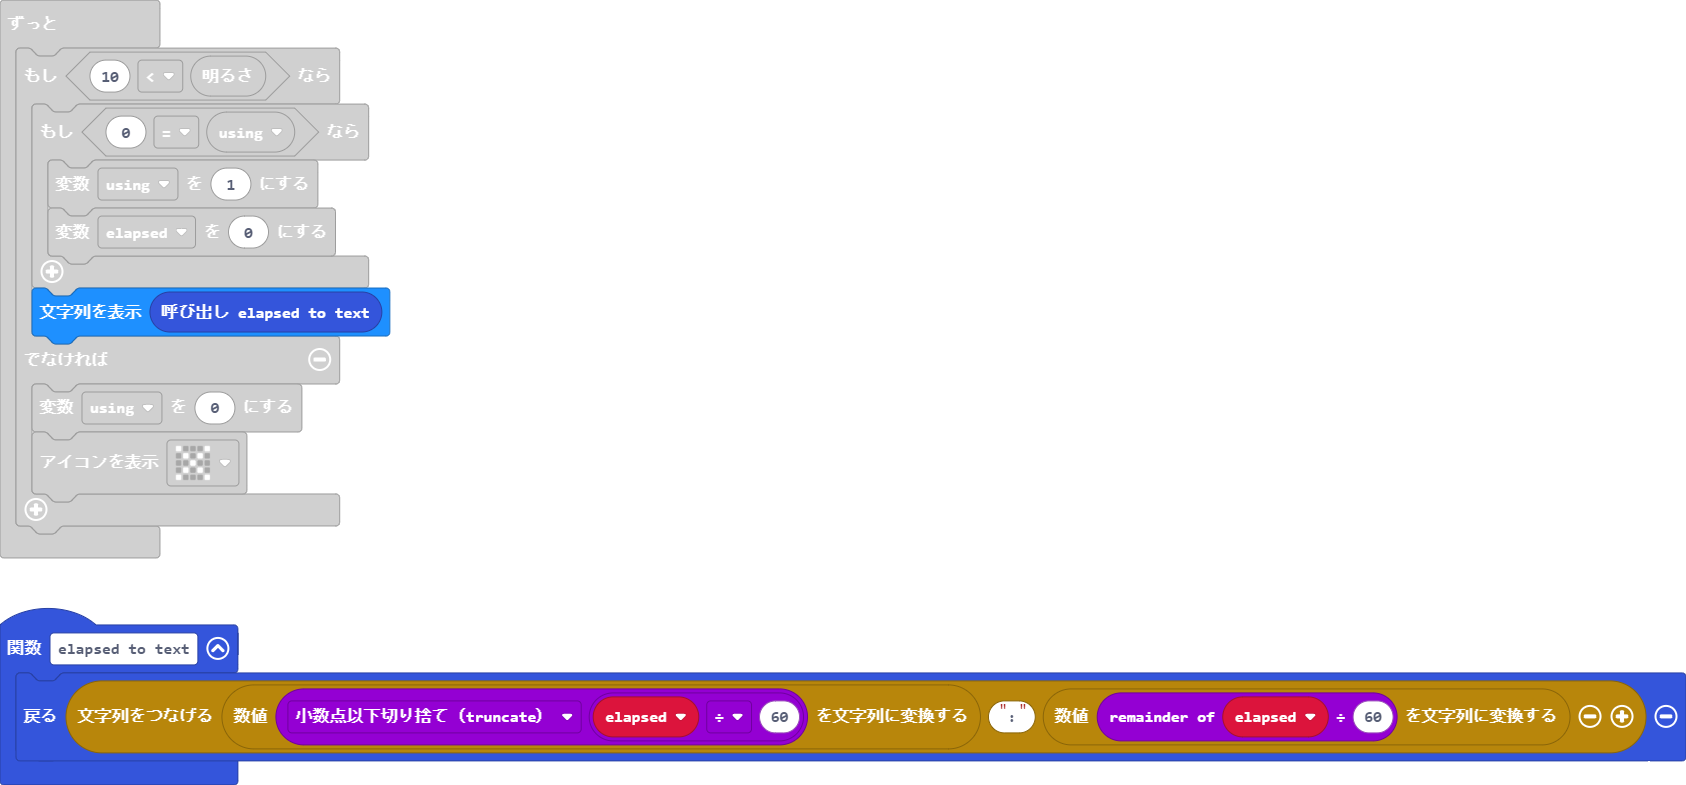
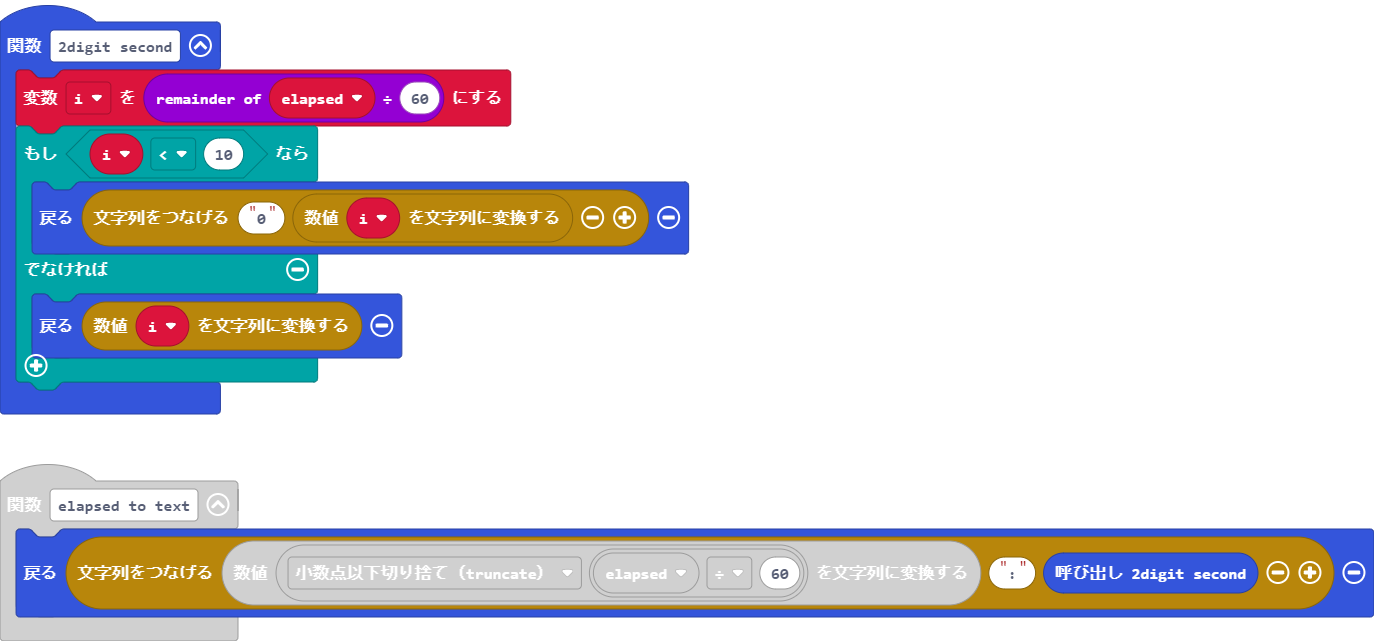
秒をつねに二けたで表示するように変更

diff --git a/main.ts b/main.ts
@@ -1,6 +1,15 @@
 function elapsed_to_text () {
-    return "" + convertToText(Math.trunc(elapsed / 60)) + ":" + convertToText(elapsed % 60)
+    return "" + convertToText(Math.trunc(elapsed / 60)) + ":" + _2digit_second()
 }
+function _2digit_second () {
+    i = elapsed % 60
+    if (i < 10) {
+        return "0" + convertToText(i)
+    } else {
+        return convertToText(i)
+    }
+}
+let i = 0
 let elapsed = 0
 let using = 0
 elapsed = 0
